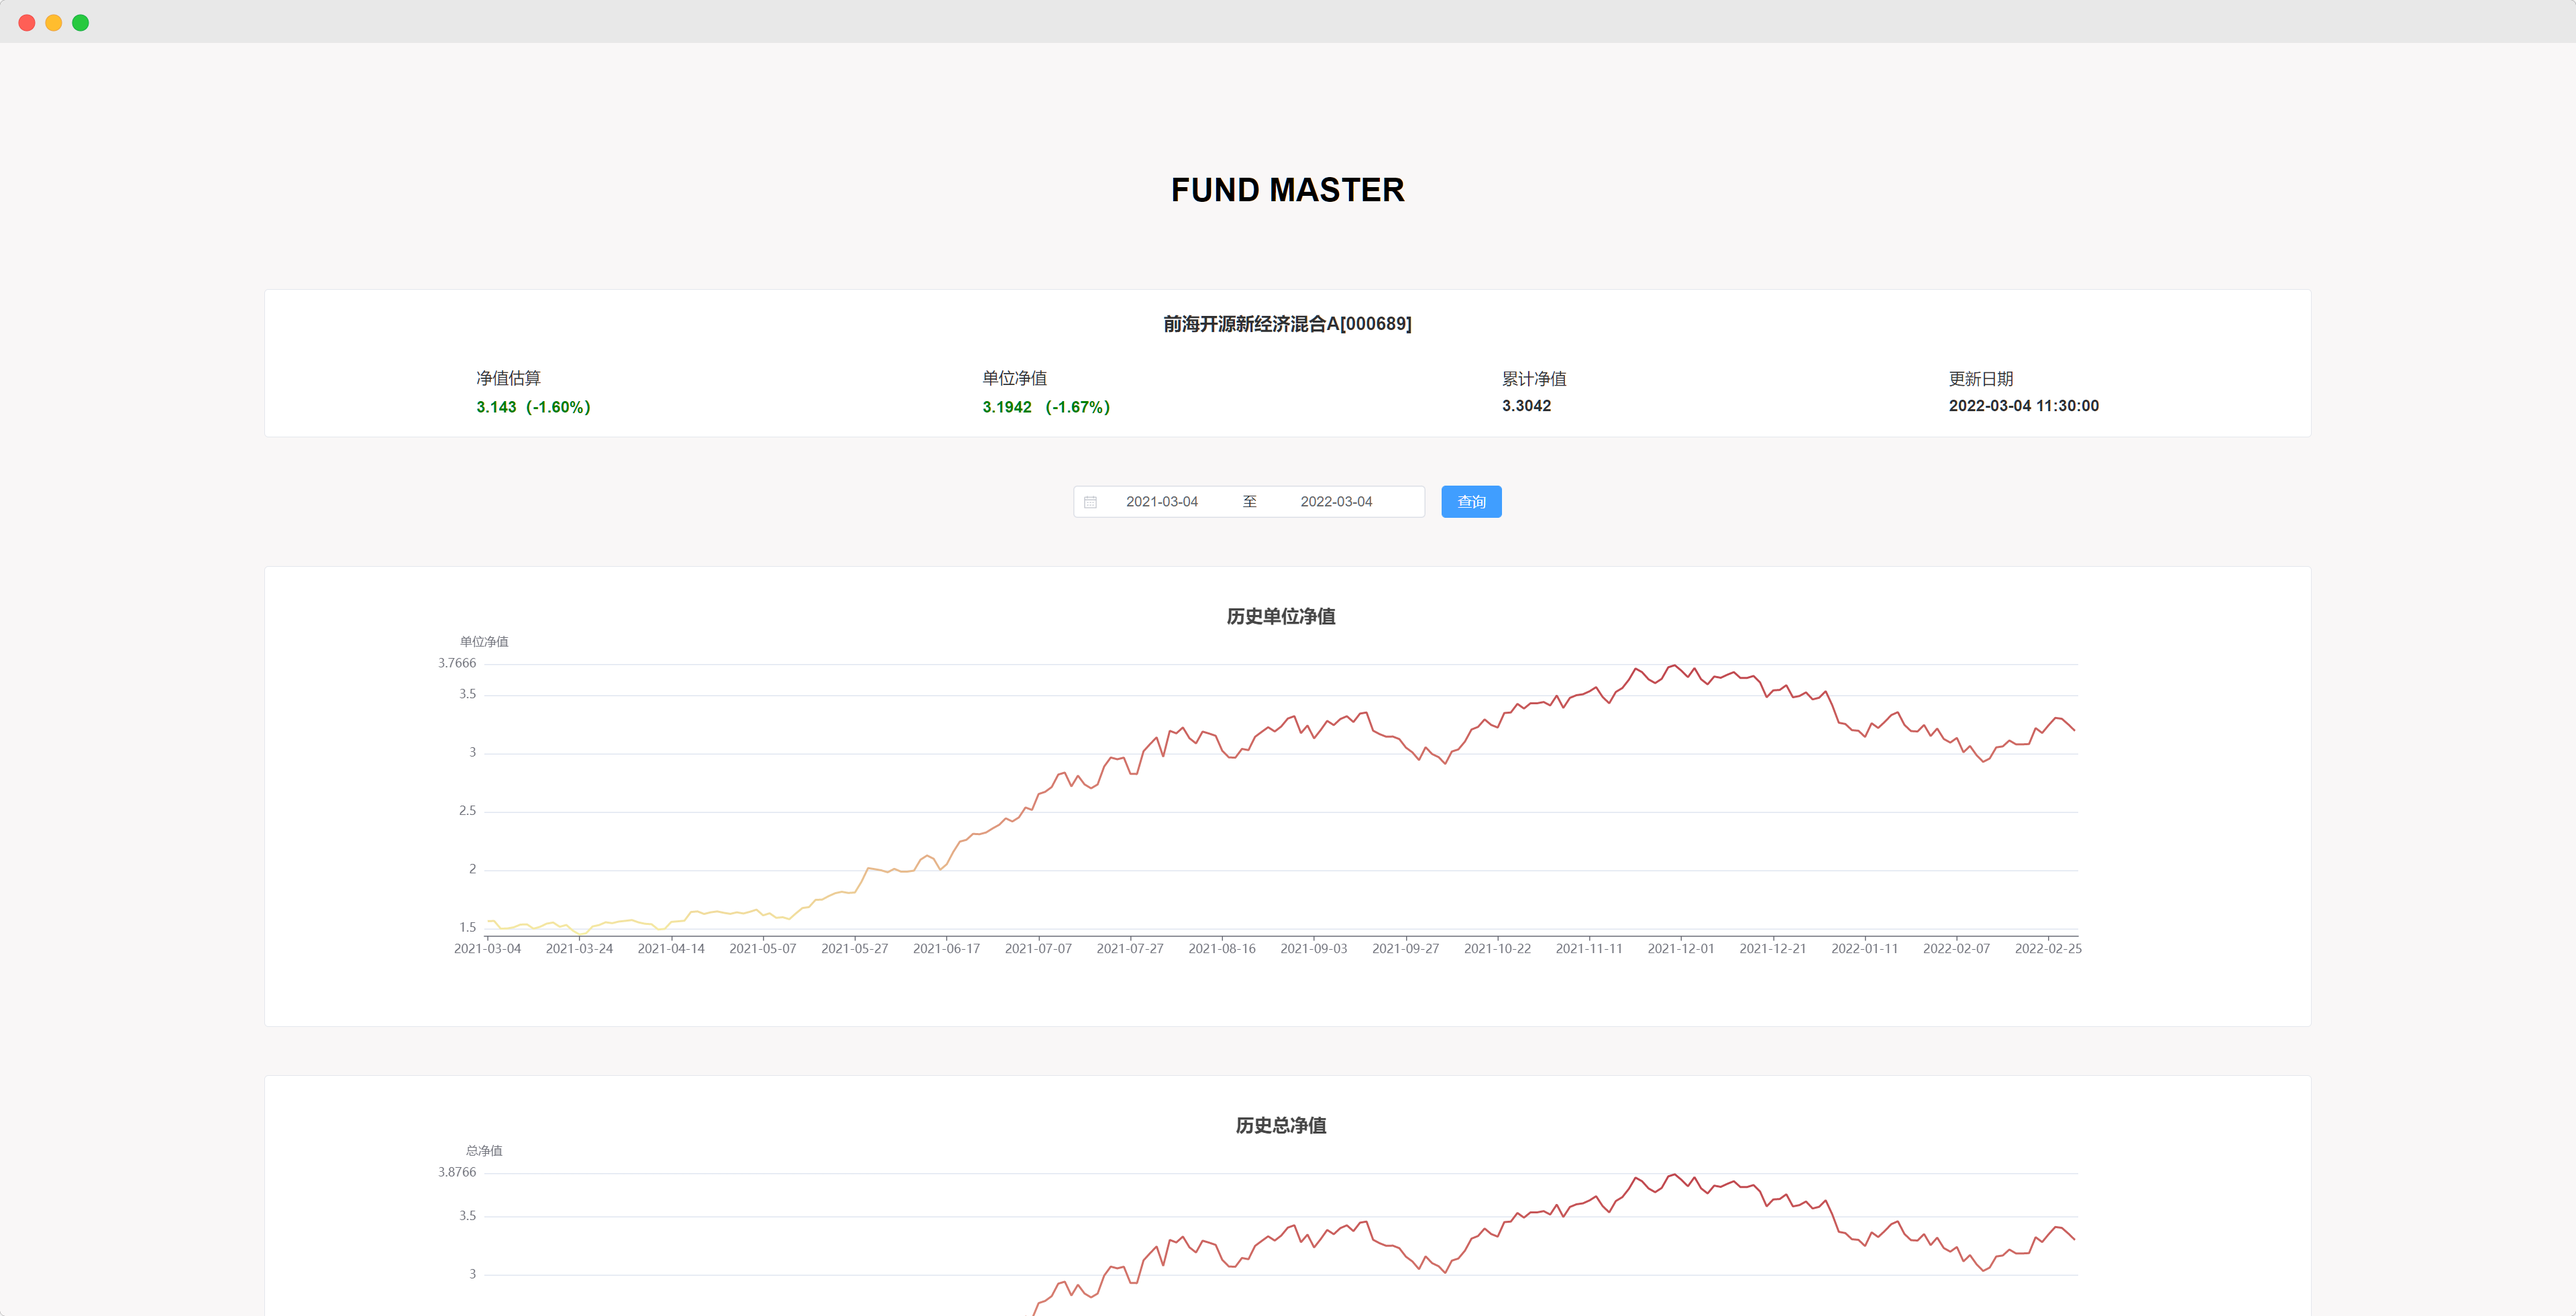
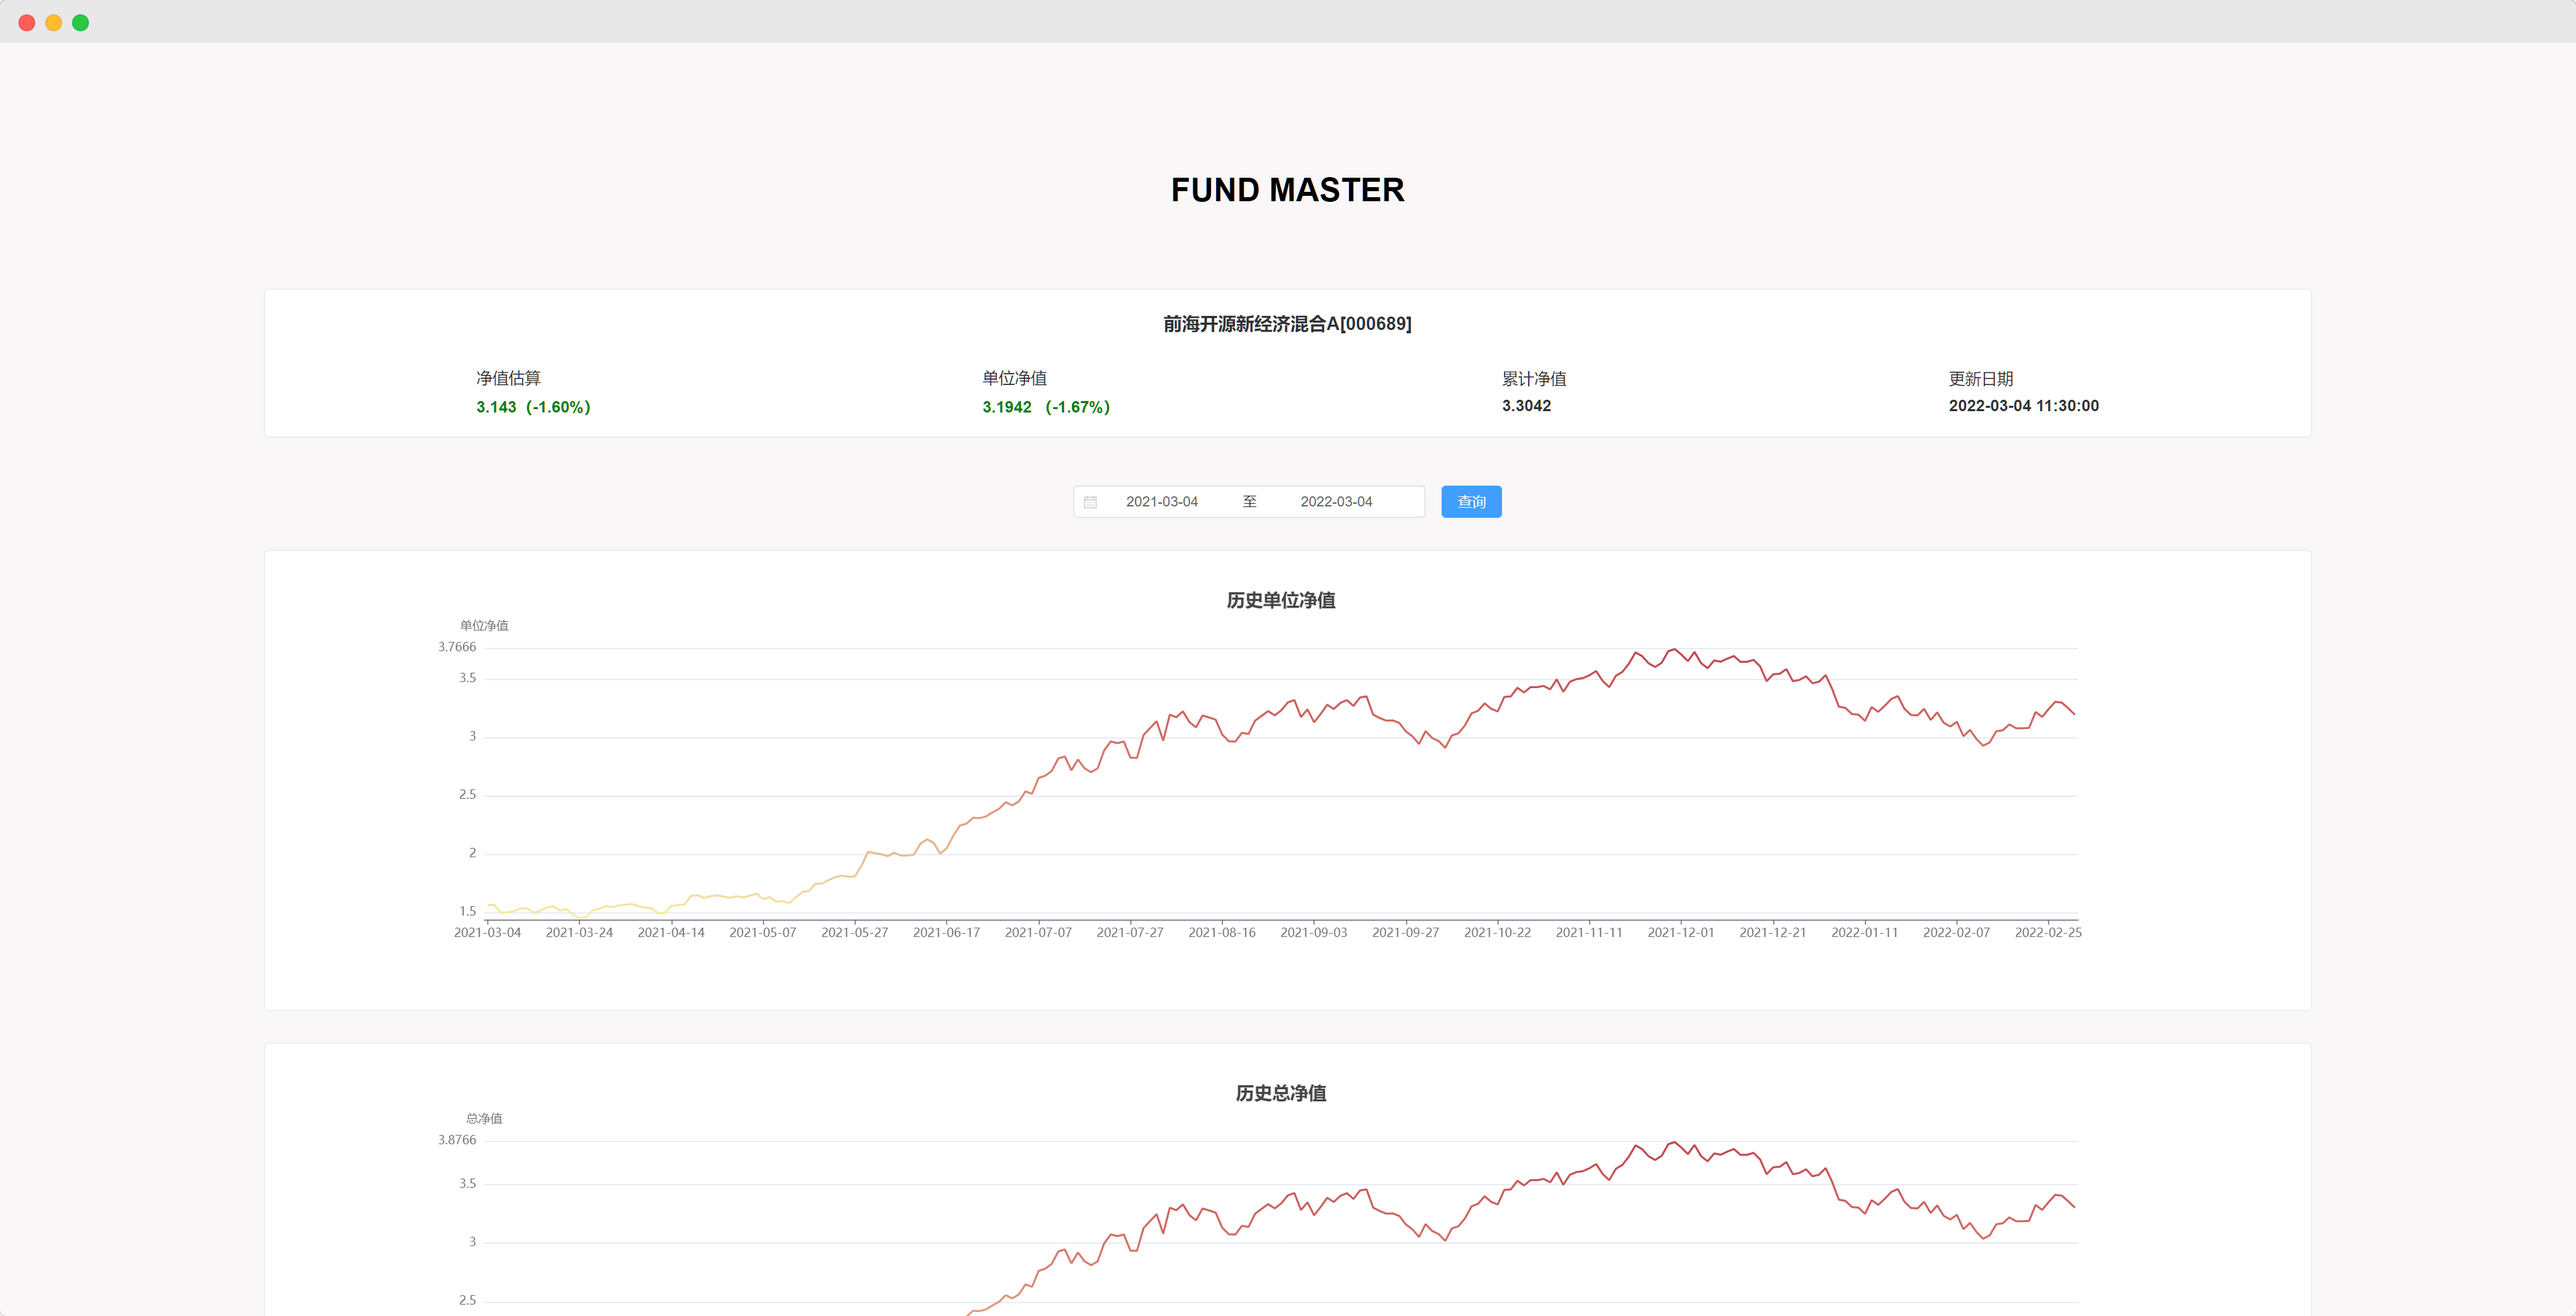
Fix style

diff --git a/src/components/FundLineChart.vue b/src/components/FundLineChart.vue
@@ -2,7 +2,7 @@
 <template>
     <div class="fund-line-chart">
         <el-card shadow="hover"
-            ><v-chart :option="worth" style="margin-top: 1rem; height: 400px"
+            ><v-chart :option="worth" style="margin-top: 2rem; height: 400px"
         /></el-card>
     </div>
 </template>

diff --git a/src/components/AllFunds.vue b/src/components/AllFunds.vue
@@ -380,7 +380,7 @@ export default {
     justify-content: center;
     align-items: center;
 
-    margin-top: 1rem;
+    margin-top: 2rem;
 }
 
 .fund-line-chart {

diff --git a/src/components/FundChart.vue b/src/components/FundChart.vue
@@ -343,7 +343,7 @@ export default {
 }
 
 .chart-item {
-    margin-top: 3rem;
+    margin-top: 2rem;
     width: 100%;
 }
 
